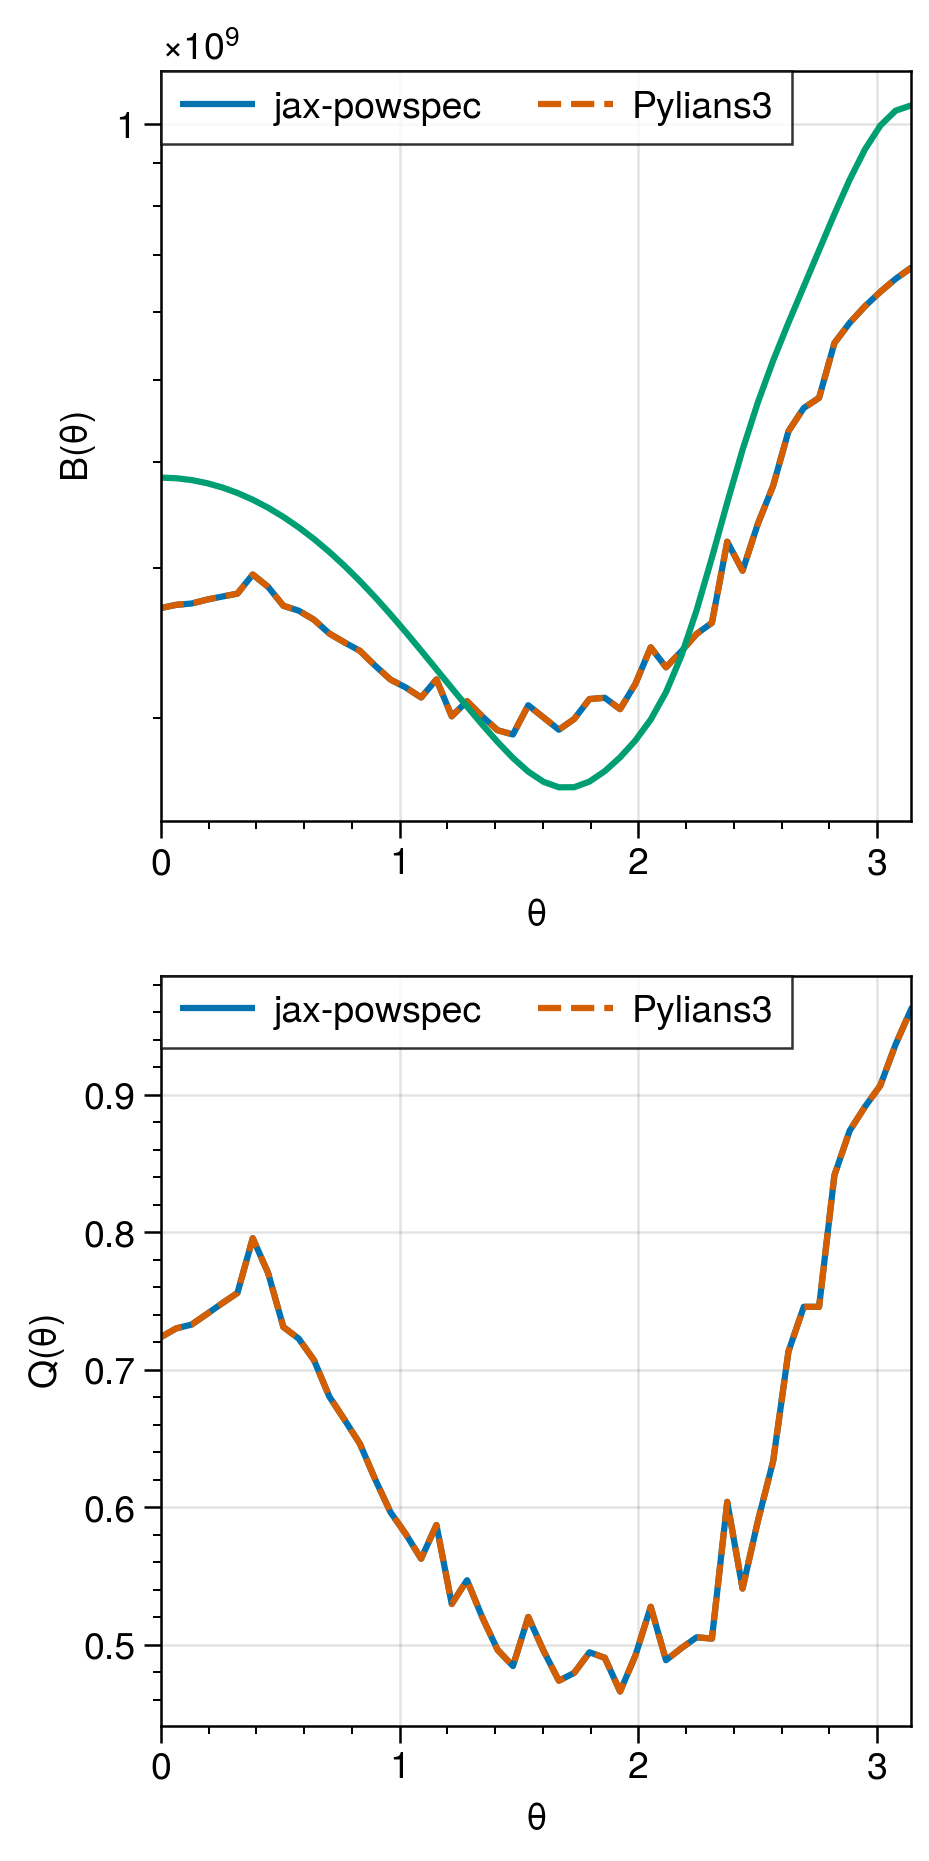
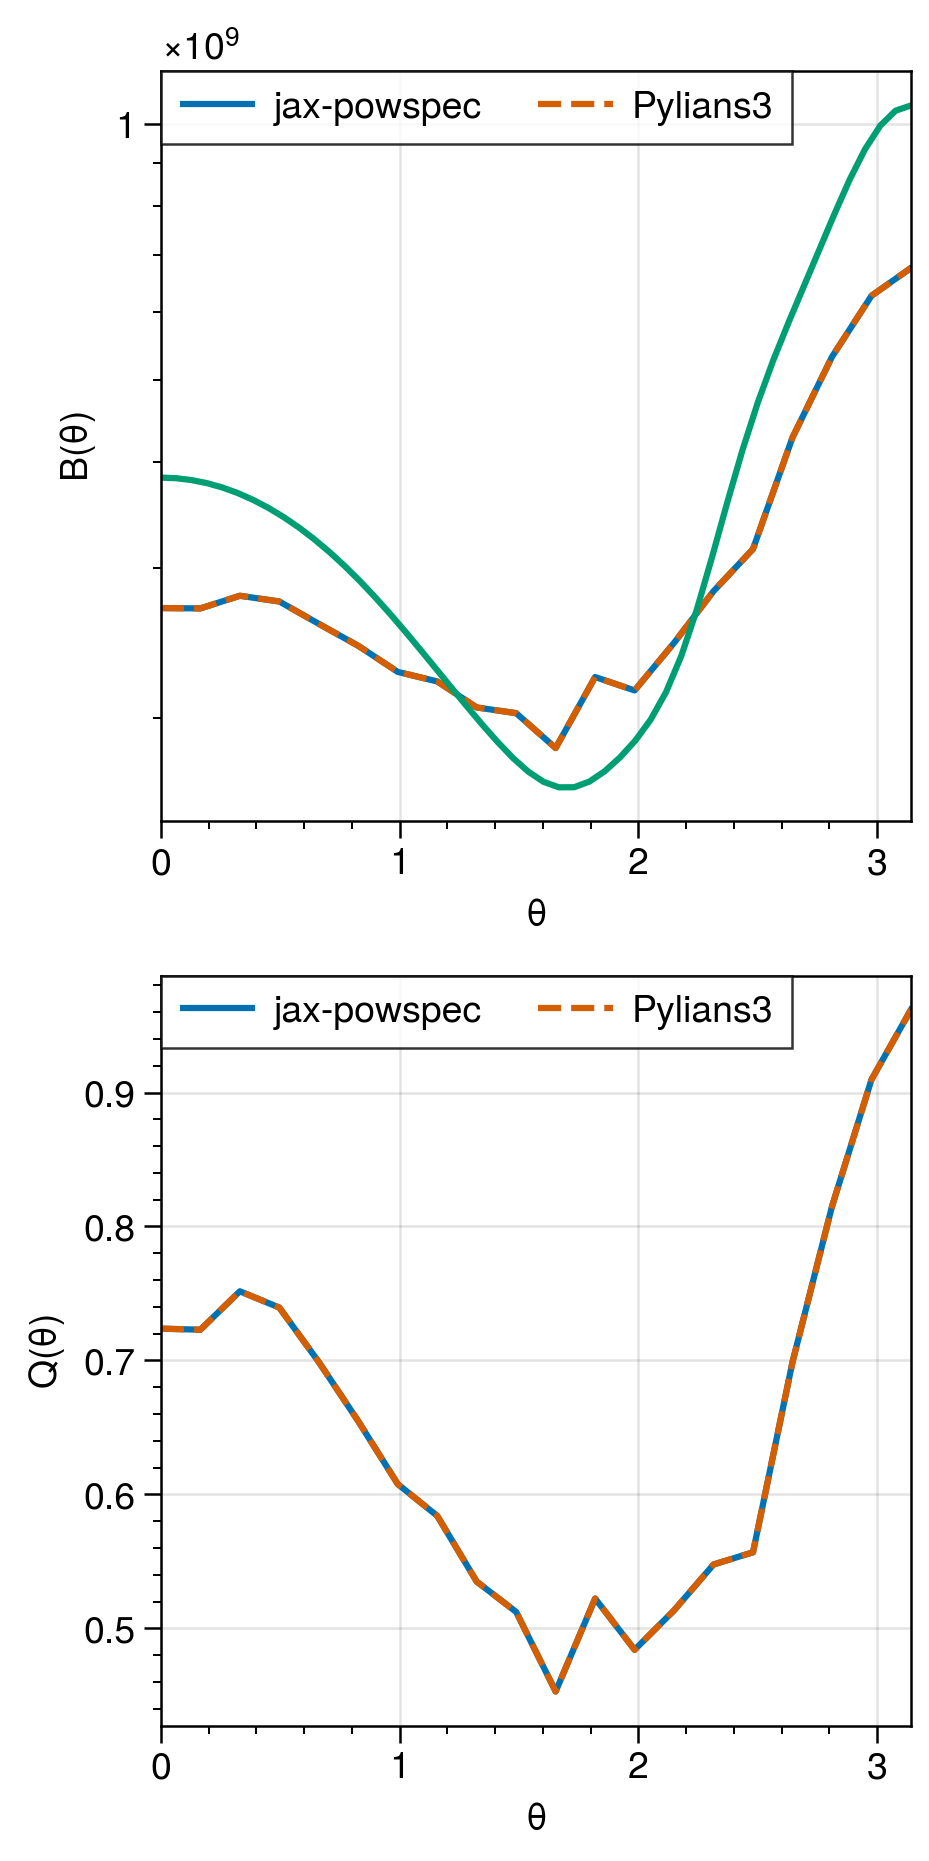
Bispectrum train attempt

diff --git a/tests/lognormal_bispec.py b/tests/lognormal_bispec.py
@@ -1,0 +1,218 @@
+
+import numpy as np
+import time
+import jax
+import jax.numpy as jnp
+from jax.experimental import loops
+import sys
+#sys.path.insert(0, "/home/daniel/OneDrive/Research/jax_cosmo") #Use my local jax_cosmo with correlations module
+import jax_cosmo as jc
+#from jax_cosmo.correlations import xicalc_trapz
+import numpy as np
+
+import proplot as pplt
+
+from src.mas import cic_mas, cic_mas_vec
+from src.correlations import powspec, powspec_vec, xi_vec, powspec_vec_fundamental, xi_vec_fundamental, bispec
+
+import MAS_library as MASL
+import Pk_library as PKL
+
+
+box_size = 1000.
+redshift = 0.55
+b1 = 2.0
+k1, k2 = 0.2, 0.4
+seed = 5
+create_data = False
+if create_data:
+    
+    cosmo = cosmology.Planck15
+    print(cosmo)
+    Plin = cosmology.LinearPower(cosmo, redshift, transfer='EisensteinHu')
+    
+    cat = LogNormalCatalog(Plin=Plin, nbar=3.5e-3, BoxSize=box_size, Nmesh=256, bias=b1, seed=seed)
+    particles = cat['Position'].compute()
+    np.save("data/lognormal.npy", particles)
+else:
+
+    particles = np.load("data/lognormal.npy")
+
+particles = jax.device_put(particles)
+cosmo = jc.Planck15()
+
+
+
+
+
+
+key = jax.random.PRNGKey(5)
+
+n_part = particles.shape[0]
+key, subkey = jax.random.split(key)
+w = jnp.ones(particles.shape[0])
+print(n_part)
+
+
+shot_noise = box_size**3 / n_part
+
+z = redshift
+n_bins = 256
+klin = np.logspace(-3, 0, 2048)
+plin_i = b1**2 * jc.power.linear_matter_power(cosmo, klin, a = 1. / (1 + z), transfer_fn=jc.transfer.Eisenstein_Hu)
+theta_theory, Bk_i = PKL.Bispectrum_theory(klin, plin_i, k1, k2)
+theta = jnp.linspace(0, jnp.pi, 15)
+
+@jax.jit
+def loss(positions):
+    xpos = positions[:,0]
+    ypos = positions[:,1]
+    zpos = positions[:,2]
+    
+    
+    
+    k_ny = jnp.pi * n_bins / box_size
+    k_edges = jnp.arange(0.003, k_ny, 0.0005)
+    delta = jnp.zeros((n_bins, n_bins, n_bins))
+    delta = cic_mas_vec(delta,
+                xpos, ypos, zpos, w, 
+                n_part, 
+                0., 0., 0.,
+                box_size,
+                n_bins,
+                True)
+    delta /= delta.mean()
+    delta -= 1.
+    k, pk, modes = powspec_vec(delta, box_size, k_edges) 
+    
+    plin = jnp.interp(k, klin, plin_i) + shot_noise
+    
+    
+    mono_loss = jnp.nanmean((jnp.log10(pk[:,0]) - jnp.log10(plin))**2)
+    quad_loss = jnp.nanmean(pk[:,1]**2)
+
+
+    _, _, _, B, Q = bispec(delta, box_size, k1, k2, theta)
+
+    bispec_loss = jnp.nanmean((B - jnp.interp(theta, theta_theory, Bk_i))**2)
+    #return mono_loss #+ 0.01 * quad_loss + 0.01 * hexa_loss
+    return mono_loss + bispec_loss
+
+
+from jax.experimental import optimizers
+key, subkey = jax.random.split(key)
+#w0 = jax.random.normal(key, (particles.shape[0],))* 0.2 + 0.4
+
+x0 = particles
+learning_rate = 1.
+opt_init, opt_update, get_params = optimizers.adam(learning_rate)
+opt_state = opt_init(x0)
+@jax.jit
+def step(step, opt_state):
+    value, grads = jax.value_and_grad(loss)(get_params(opt_state))
+    opt_state = opt_update(step, grads, opt_state)
+    return opt_state
+num_steps = 2
+s = time.time()
+print("Training...", flush=True)
+opt_state = jax.lax.fori_loop(0, num_steps, step, opt_state)   
+print(f"Training took {time.time() - s} s", flush=True)
+new_pos = get_params(opt_state)
+#final_loss = loss(w).block_until_ready()
+#print(f"Final loss: {final_loss}", flush=True)
+
+k_ny = jnp.pi * n_bins / box_size
+delta = jnp.zeros((n_bins, n_bins, n_bins))
+delta = cic_mas_vec(delta,
+            new_pos[:,0], new_pos[:,1], new_pos[:,2], w, 
+            n_part, 
+            0., 0., 0.,
+            box_size,
+            n_bins,
+            True)
+delta /= delta.mean()
+delta -= 1.
+
+k, pk, modes = powspec_vec_fundamental(delta, box_size) 
+mask = k < k_ny
+k = k[mask]
+pk = pk[mask]
+s, xi, modes = xi_vec_fundamental(delta, box_size)
+mask = s < 200
+s = s[mask]
+xi = xi[mask]
+
+_, _, _, B, Q = bispec(delta, box_size, k1, k2, theta)
+
+bias = b1
+plin = bias**2 * jc.power.linear_matter_power(jc.Planck15(), k, a=1. / (1 + z), transfer_fn=jc.transfer.Eisenstein_Hu) + shot_noise
+
+fig, ax = pplt.subplots(nrows=3, ncols=3, sharex=False, sharey=False)
+ax[6].imshow(delta[:,:,:].mean(axis=2), colorbar='r')
+ax[6].format(title='Corrected')
+ax[0].plot(k, pk[:,0], label='Corrected')
+ax[1].plot(k, k*pk[:,1], label='Corrected')
+ax[2].plot(k, k*pk[:,2], label='Corrected')
+
+ax[3].plot(s, s**2*xi[:,0], label='Corrected')
+ax[4].plot(s, s**2*xi[:,1], label='Corrected')
+ax[5].plot(s, s**2*xi[:,2], label='Corrected')
+
+ax[8].plot(theta, B, label='Corrected')
+
+delta = jnp.zeros((n_bins, n_bins, n_bins))
+delta = cic_mas_vec(delta,
+            particles[:,0], particles[:,1], particles[:,2], w, 
+            n_part, 
+            0., 0., 0.,
+            box_size,
+            n_bins,
+            True)
+delta /= delta.mean()
+delta -= 1.
+k, pk, modes = powspec_vec_fundamental(delta, box_size) 
+mask = k < k_ny
+k = k[mask]
+pk = pk[mask]
+s, xi, modes = xi_vec_fundamental(delta, box_size)
+mask = s < 200
+s = s[mask]
+xi = xi[mask]
+
+_, _, _, B, Q = bispec(delta, box_size, k1, k2, theta)
+
+ax[0].plot(k, pk[:,0], label='Log-normal', ls='--')
+ax[1].plot(k, k*pk[:,1], label='Log-normal', ls='--')
+ax[2].plot(k, k*pk[:,2], label='Log-normal', ls='--')
+ax[3].plot(s, s**2*xi[:,0], label='Log-normal', ls = '--')
+ax[4].plot(s, s**2*xi[:,1], label='Log-normal')
+ax[5].plot(s, s**2*xi[:,2], label='Log-normal')
+
+ax[8].plot(theta, B, label='Log-normal')
+
+plin = bias**2 * jc.power.linear_matter_power(jc.Planck15(), klin, a=1. / (1 + z), transfer_fn=jc.transfer.Eisenstein_Hu) + shot_noise
+
+
+
+
+
+ax[0].plot(klin, plin, label='Linear', ls=':')
+ax[8].plot(theta_theory, Bk_i, label='Linear', ls=':')
+
+ax[0].format(xscale = 'log', yscale = 'log', xlabel='$k$ [$h$/Mpc]', ylabel='$P(k)$')
+ax[0,:].format(xscale = 'log', yscale='linear', xlabel='$k$ [$h$/Mpc]', ylabel='$P(k)$')
+ax[7].imshow(delta[:,:,:].mean(axis=2), colorbar='r')
+ax[7].format(title='Log-normal')
+ax[0].legend(loc='bottom')
+ax[3].legend(loc='bottom')
+ax[3].format(xlabel='$s$', ylabel=r'$s^2\xi$')
+fig.savefig("plots/lognormal_bispec.png", dpi=300)
+
+
+
+
+
+
+
+
+

diff --git a/tests/bispec.py b/tests/bispec.py
@@ -51,7 +51,7 @@ delta -= 1.
 print(f"MAS took {time.time() - s} s.", flush=True)
 
 k1, k2 = 0.1, 0.2
-theta = jnp.linspace(0, jnp.pi, 50)
+theta = jnp.linspace(0, jnp.pi, 20)
 s = time.time()
 k_all, Pk, theta, B, Q = bispec(delta, box_size, k1, k2, theta)
 print(f"compile + bispectrum took {time.time() - s} s.", flush=True)
@@ -79,7 +79,7 @@ plin = np.array(b1**2 * jc.power.linear_matter_power(jc.Planck15(), klin, a=1. /
 
 
 theta_theory, Bk_theory = PKL.Bispectrum_theory(klin, plin, k1, k2)
-
+print(theta_theory.shape)
 ax[0].plot(theta_theory, Bk_theory)
 
 ax[0].format(xlabel=r'$\theta$', ylabel=r'$B(\theta)$', yscale='log')
